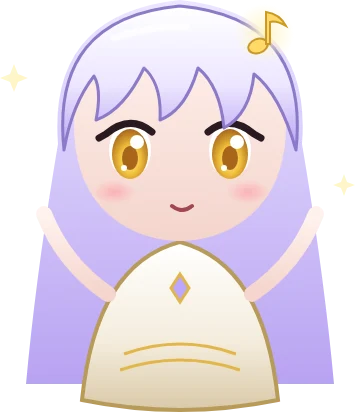
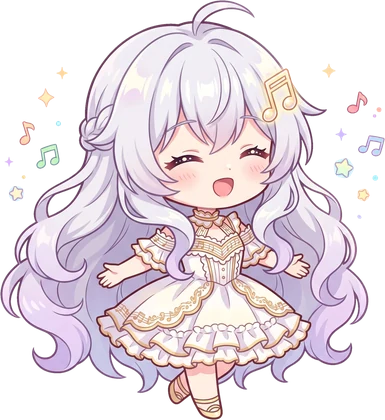
Heroine art: Gemini illustrations for Mina and Aria
Replaces the vector portraits with AI art supplied by the requester.
cutout.py now removes white pockets enclosed by hair, and busts no longer
flood-fill from the bottom edge (white dresses touch it). Aria's sad bust
reuses the normal one until that image arrives.

Claude-Session: https://claude.ai/code/session_01NU6W9Yh3jMUNh65aQZcTxw

diff --git a/tools/cutout.py b/tools/cutout.py
@@ -25,16 +25,40 @@ def cutout(src, name):
         rgb = im.convert('RGB')
         w, h = rgb.size
         step = max(4, min(w, h) // 64)
-        seeds = [(x, 0) for x in range(0, w, step)] + [(x, h - 1) for x in range(0, w, step)] + [(0, y) for y in range(0, h, step)] + [(w - 1, y) for y in range(0, h, step)]
+        # A bust is cut off at the bottom edge (white dresses touch it), so only chibis seed from there.
+        bottom = [(x, h - 1) for x in range(0, w, step)] if 'chibi' in name else []
+        seeds = [(x, 0) for x in range(0, w, step)] + bottom + [(0, y) for y in range(0, h - 1, step)] + [(w - 1, y) for y in range(0, h - 1, step)]
         for p in seeds:
             r, g, b = rgb.getpixel(p)
             if min(r, g, b) > 225 and rgb.getpixel(p) != KEY:
                 ImageDraw.floodfill(rgb, p, KEY, thresh=40)
-        mask = Image.new('L', (w, h), 255)
-        px, mp = rgb.load(), mask.load()
+        # Background pockets enclosed by hair or arms: large, neutral pure-white regions.
+        # Eye whites, skin highlights and glows are warmer (r - b >= 3) or small, so they stay.
+        orig, px = im.convert('RGB'), rgb.load()
+        comps, k = [], 0
+        for y in range(0, h, 6):
+            for x in range(0, w, 6):
+                if min(px[x, y]) > 238 and px[x, y] != KEY:
+                    k += 1
+                    col = (0, 128 | (k >> 8) & 127, k & 255)
+                    ImageDraw.floodfill(rgb, (x, y), col, thresh=20)
+                    comps.append(col)
+        area = {c: n for n, c in rgb.getcolors(w * h)}
+        cand = {c for c in comps if area.get(c, 0) > max(2000, w * h // 2000)}
+        acc = {c: [0, 0, 0] for c in cand}
+        op = orig.load()
         for y in range(h):
             for x in range(w):
-                if px[x, y] == KEY:
+                a = acc.get(px[x, y])
+                if a is not None:
+                    r, _, b = op[x, y]
+                    a[0] += r; a[1] += b; a[2] += 1
+        drop = {c for c, (r, b, n) in acc.items() if b / n > 251 and (r - b) / n < 3}
+        mask = Image.new('L', (w, h), 255)
+        mp = mask.load()
+        for y in range(h):
+            for x in range(w):
+                if px[x, y] == KEY or px[x, y] in drop:
                     mp[x, y] = 0
         mask = mask.filter(ImageFilter.MinFilter(3)).filter(ImageFilter.GaussianBlur(0.8))
         cut = im.copy()
